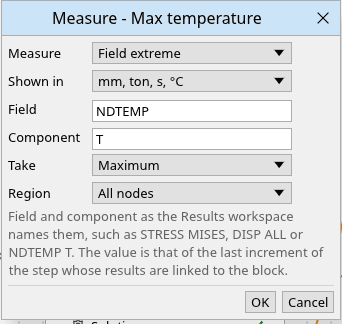
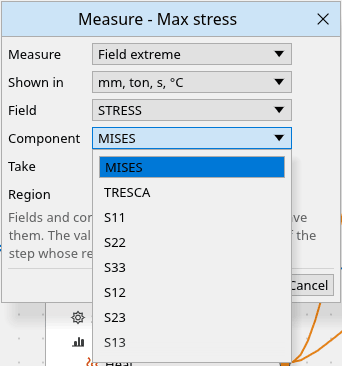
Measure editor: pick field and component from the linked results
With results linked, the editor reads them on a worker thread and offers
their nodal fields, the components of the chosen field and, for a history
output, the sets of the .dat file as lists. A name the results lack is
shown in the warning color. Without linked results they stay text fields.

Claude-Session: https://claude.ai/code/session_016cJQH5Q5UCWyncgSmoNTsf

diff --git a/crates/plx-app/src/measure.rs b/crates/plx-app/src/measure.rs
@@ -130,6 +130,73 @@ fn run(job: &Job) -> Result<f64, String> {
     evaluate(&job.kind, job.step, &frd, dat.as_ref(), &job.node_sets)
 }
 
+/// Fields by name, each with the names of its components.
+pub type Fields = Vec<(String, Vec<String>)>;
+
+/// The fields and components the results of a step offer, to pick from in the editor.
+#[derive(Clone, Debug, Default, PartialEq)]
+pub struct Offered {
+    /// Nodal fields of the step and their components, in the order of the results.
+    pub fields: Fields,
+    /// History output: the sets, each with its fields and their components.
+    pub history: Vec<(String, Fields)>,
+}
+
+impl Offered {
+    /// The fields of a history set, if the results have it.
+    pub fn history_fields(&self, set: &str) -> Option<&[(String, Vec<String>)]> {
+        (self.history.iter())
+            .find(|(name, _)| name.eq_ignore_ascii_case(set))
+            .map(|(_, fields)| fields.as_slice())
+    }
+}
+
+/// What the results of step `step` offer to measure.
+pub fn offered(step: u32, frd: &FrdImport, dat: Option<&plx_io::dat::DatImport>) -> Offered {
+    let mut fields: Fields = Vec::new();
+    for increment in frd.increments.iter().filter(|i| i.step == step) {
+        for field in &increment.fields {
+            let components = field.components.iter().map(|c| c.name.clone()).collect();
+            match fields.iter_mut().find(|(name, _)| *name == field.name) {
+                Some(entry) => entry.1 = components,
+                None => fields.push((field.name.clone(), components)),
+            }
+        }
+    }
+    let history = (dat.iter().flat_map(|d| &d.sets))
+        .filter(|set| set.rows.iter().any(|(s, _, _)| *s == step))
+        .map(|set| {
+            let fields = (set.fields.iter())
+                .map(|f| {
+                    let components = f.components.iter().map(|c| c.name.clone()).collect();
+                    (f.name.clone(), components)
+                })
+                .collect();
+            (set.name.clone(), fields)
+        })
+        .collect();
+    Offered { fields, history }
+}
+
+/// Reads what the results offer to measure on a worker thread, into `dir`.
+pub fn read_offered(
+    results: BoundResults,
+    step: u32,
+    dir: PathBuf,
+) -> Receiver<Result<Offered, String>> {
+    let (sender, receiver) = std::sync::mpsc::channel();
+    std::thread::spawn(move || {
+        let read = || {
+            let frd_path =
+                plx_io::project::restore_results(&results, &dir).map_err(|e| e.to_string())?;
+            let frd = plx_io::frd::read_frd(&frd_path).map_err(|e| e.to_string())?;
+            Ok(offered(step, &frd, read_dat_beside(&frd_path).as_ref()))
+        };
+        let _ = sender.send(read());
+    });
+    receiver
+}
+
 fn read_dat_beside(frd: &Path) -> Option<plx_io::dat::DatImport> {
     plx_io::dat::read_dat(&frd.with_extension("dat")).ok()
 }
@@ -165,6 +232,17 @@ pub struct MeasureEditor {
     units: UnitSystem,
     /// The node sets of the mesh of the results linked to it, to pick from.
     node_sets: Vec<String>,
+    /// The fields and components of the results linked to it, to pick from.
+    choices: Choices,
+}
+
+/// What the editor offers for field and component: free text without linked results, the
+/// names in the results once they are read.
+enum Choices {
+    Typed,
+    Reading(Receiver<Result<Offered, String>>),
+    Read(Offered),
+    Failed(String),
 }
 
 impl MeasureEditor {
@@ -174,6 +252,7 @@ impl MeasureEditor {
         kind: MeasureKind,
         units: UnitSystem,
         node_sets: Vec<String>,
+        offered: Option<Receiver<Result<Offered, String>>>,
     ) -> Self {
         Self {
             id,
@@ -181,6 +260,7 @@ impl MeasureEditor {
             kind,
             units,
             node_sets,
+            choices: offered.map_or(Choices::Typed, Choices::Reading),
         }
     }
 
@@ -189,6 +269,16 @@ impl MeasureEditor {
     }
 
     pub fn show(&mut self, ctx: &egui::Context) -> MeasureEditorResult {
+        if let Choices::Reading(receiver) = &self.choices {
+            match receiver.try_recv() {
+                Ok(Ok(offered)) => self.choices = Choices::Read(offered),
+                Ok(Err(why)) => self.choices = Choices::Failed(why),
+                Err(std::sync::mpsc::TryRecvError::Empty) => ctx.request_repaint(),
+                Err(std::sync::mpsc::TryRecvError::Disconnected) => {
+                    self.choices = Choices::Failed("the reading stopped".into());
+                }
+            }
+        }
         let mut result = MeasureEditorResult::Open;
         let mut open = true;
         egui::Window::new(format!("Measure - {}", self.name))
@@ -203,11 +293,22 @@ impl MeasureEditor {
                     .num_columns(2)
                     .spacing([12.0, 6.0])
                     .show(ui, |ui| self.form(ui));
-                ui.weak(
-                    "Field and component as the Results workspace names them, such as STRESS \
-                     MISES, DISP ALL or NDTEMP T. The value is that of the last increment of \
-                     the step whose results are linked to the block.",
-                );
+                ui.weak(match &self.choices {
+                    Choices::Read(_) => {
+                        "Fields and components as the linked results have them. The value is \
+                         that of the last increment of the step whose results are linked to \
+                         the block."
+                            .to_owned()
+                    }
+                    Choices::Reading(_) => "Reading the fields of the linked results...".into(),
+                    Choices::Typed => {
+                        "Field and component as the Results workspace names them, such as \
+                         STRESS MISES, DISP ALL or NDTEMP T. Link the results of a step to the \
+                         block to pick them from a list."
+                            .to_owned()
+                    }
+                    Choices::Failed(why) => format!("The linked results were not read: {why}"),
+                });
                 ui.separator();
                 ui.with_layout(egui::Layout::right_to_left(egui::Align::Min), |ui| {
                     if ui.button("Cancel").clicked() {
@@ -249,10 +350,9 @@ impl MeasureEditor {
                 }
             });
         ui.end_row();
-        let text = |ui: &mut egui::Ui, label: &str, value: &mut String| {
-            ui.label(label);
-            ui.add_sized([200.0, 18.0], egui::TextEdit::singleline(value));
-            ui.end_row();
+        let offered = match &self.choices {
+            Choices::Read(offered) => Some(offered),
+            _ => None,
         };
         match &mut self.kind {
             MeasureKind::FieldExtreme {
@@ -261,8 +361,7 @@ impl MeasureEditor {
                 extreme,
                 region,
             } => {
-                text(ui, "Field", field);
-                text(ui, "Component", component);
+                field_and_component(ui, offered.map(|o| o.fields.as_slice()), field, component);
                 ui.label("Take");
                 egui::ComboBox::from_id_salt("measure extreme")
                     .selected_text(extreme.label())
@@ -294,8 +393,7 @@ impl MeasureEditor {
                 component,
                 node,
             } => {
-                text(ui, "Field", field);
-                text(ui, "Component", component);
+                field_and_component(ui, offered.map(|o| o.fields.as_slice()), field, component);
                 ui.label("Node");
                 ui.add(egui::DragValue::new(node).range(1..=u32::MAX));
                 ui.end_row();
@@ -305,9 +403,21 @@ impl MeasureEditor {
                 field,
                 component,
             } => {
-                text(ui, "Set", set);
-                text(ui, "Field", field);
-                text(ui, "Component", component);
+                let sets: Option<Vec<String>> =
+                    offered.map(|o| o.history.iter().map(|(name, _)| name.clone()).collect());
+                if pick(ui, "Set", set, sets.as_deref())
+                    && let Some(fields) = offered.and_then(|o| o.history_fields(set))
+                    && !fields.iter().any(|(name, _)| name == field)
+                    && let Some((first, components)) = fields.first()
+                {
+                    first.clone_into(field);
+                    components
+                        .first()
+                        .unwrap_or(&String::new())
+                        .clone_into(component);
+                }
+                let fields = offered.map(|o| o.history_fields(set).unwrap_or_default());
+                field_and_component(ui, fields, field, component);
             }
             MeasureKind::Eigenfrequency { mode } => {
                 ui.label("Mode");
@@ -316,6 +426,77 @@ impl MeasureEditor {
             }
         }
     }
+}
+
+/// The Field and Component rows: lists of what `offered` has, or free text without it. A
+/// field picked from the list keeps the component if it has one of that name, otherwise takes
+/// its first.
+fn field_and_component(
+    ui: &mut egui::Ui,
+    offered: Option<&[(String, Vec<String>)]>,
+    field: &mut String,
+    component: &mut String,
+) {
+    let fields: Option<Vec<String>> =
+        offered.map(|list| list.iter().map(|(name, _)| name.clone()).collect());
+    let components_of = |field: &str| -> Vec<String> {
+        (offered.into_iter().flatten())
+            .find(|(name, _)| name == field)
+            .map(|(_, components)| components.clone())
+            .unwrap_or_default()
+    };
+    if pick(ui, "Field", field, fields.as_deref()) {
+        let components = components_of(field);
+        if !components.contains(component)
+            && let Some(first) = components.first()
+        {
+            first.clone_into(component);
+        }
+    }
+    let components = offered.map(|_| components_of(field));
+    pick(ui, "Component", component, components.as_deref());
+}
+
+/// A row with a list of `options` to pick `value` from, or a text field without options; true
+/// when the value changed. A value the options lack is shown in the warning color.
+fn pick(ui: &mut egui::Ui, label: &str, value: &mut String, options: Option<&[String]>) -> bool {
+    ui.label(label);
+    let changed = match options {
+        None => (ui.add_sized([200.0, 18.0], egui::TextEdit::singleline(value))).changed(),
+        Some(options) => {
+            let known = options.contains(value);
+            let shown = if value.is_empty() {
+                egui::RichText::new("(none)")
+            } else if known {
+                egui::RichText::new(value.as_str())
+            } else {
+                egui::RichText::new(value.as_str()).color(ui.visuals().warn_fg_color)
+            };
+            let mut changed = false;
+            let combo = egui::ComboBox::from_id_salt(("measure pick", label))
+                .selected_text(shown)
+                .width(200.0)
+                .show_ui(ui, |ui| {
+                    for option in options {
+                        if ui.selectable_label(option == value, option).clicked() && option != value
+                        {
+                            option.clone_into(value);
+                            changed = true;
+                        }
+                    }
+                });
+            if !known {
+                combo.response.on_hover_text(if options.is_empty() {
+                    "The linked results have nothing to pick here."
+                } else {
+                    "Not in the linked results."
+                });
+            }
+            changed
+        }
+    };
+    ui.end_row();
+    changed
 }
 
 #[cfg(test)]
@@ -361,5 +542,25 @@ mod tests {
         assert!(evaluate(&missing, step, &frd, None, &sets).is_err());
         let eigen = MeasureKind::Eigenfrequency { mode: 1 };
         assert!(evaluate(&eigen, step, &frd, None, &sets).is_err());
+    }
+
+    #[test]
+    fn the_results_offer_their_fields_and_components() {
+        let frd = plx_io::frd::read_frd(&testdata("kragbalken_c3d8.frd")).unwrap();
+        let step = frd.increments.last().unwrap().step;
+        let offered = offered(step, &frd, None);
+        let stress = (offered.fields.iter())
+            .find(|(name, _)| name == "STRESS")
+            .map(|(_, components)| components)
+            .unwrap();
+        assert!(stress.iter().any(|c| c == "MISES"));
+        let disp = offered
+            .fields
+            .iter()
+            .find(|(name, _)| name == "DISP")
+            .unwrap();
+        assert!(disp.1.iter().any(|c| c == "ALL"));
+        assert!(offered.history.is_empty());
+        assert_eq!(super::offered(step + 1, &frd, None), Offered::default());
     }
 }

diff --git a/crates/plx-app/src/project.rs b/crates/plx-app/src/project.rs
@@ -881,13 +881,37 @@ impl ProjectApp {
             .and_then(Node::link_data)
             .map(|d| d.mesh.node_sets.keys().cloned().collect())
             .unwrap_or_default();
+        let offered = (self.measured(id)).map(|(source, step, bound)| {
+            let dir = self.measure_dir(id, source, bound, "-fields");
+            crate::measure::read_offered(bound.clone(), step, dir)
+        });
         self.measure_editor = Some(MeasureEditor::new(
             id,
             &node.name,
             measure.kind.clone(),
             units,
             node_sets,
+            offered,
         ));
+    }
+
+    /// Where a measure block restores the results it reads: one folder per results, with
+    /// `suffix` for a reader that must not share it.
+    fn measure_dir(
+        &self,
+        id: u64,
+        source: &Node,
+        bound: &plx_io::project::BoundResults,
+        suffix: &str,
+    ) -> std::path::PathBuf {
+        (self.settings.solver.work_dir())
+            .join(crate::analysis::job_name(&self.project_name()))
+            .join(crate::analysis::job_name(&self.name_of(id)))
+            .join(format!(
+                "{}-{:016x}{suffix}",
+                crate::analysis::job_name(&source.name),
+                bound.input.unwrap_or_default()
+            ))
     }
 
     fn measure_window(&mut self, ctx: &egui::Context) {
@@ -1031,14 +1055,7 @@ impl ProjectApp {
             let node_sets = (source.link_data())
                 .map(|d| d.mesh.node_sets.clone())
                 .unwrap_or_default();
-            let dir = (self.settings.solver.work_dir())
-                .join(crate::analysis::job_name(&self.project_name()))
-                .join(crate::analysis::job_name(&self.name_of(id)))
-                .join(format!(
-                    "{}-{:016x}",
-                    crate::analysis::job_name(&source.name),
-                    bound.input.unwrap_or_default()
-                ));
+            let dir = self.measure_dir(id, source, bound, "");
             let job = crate::measure::Job {
                 kind,
                 step,
